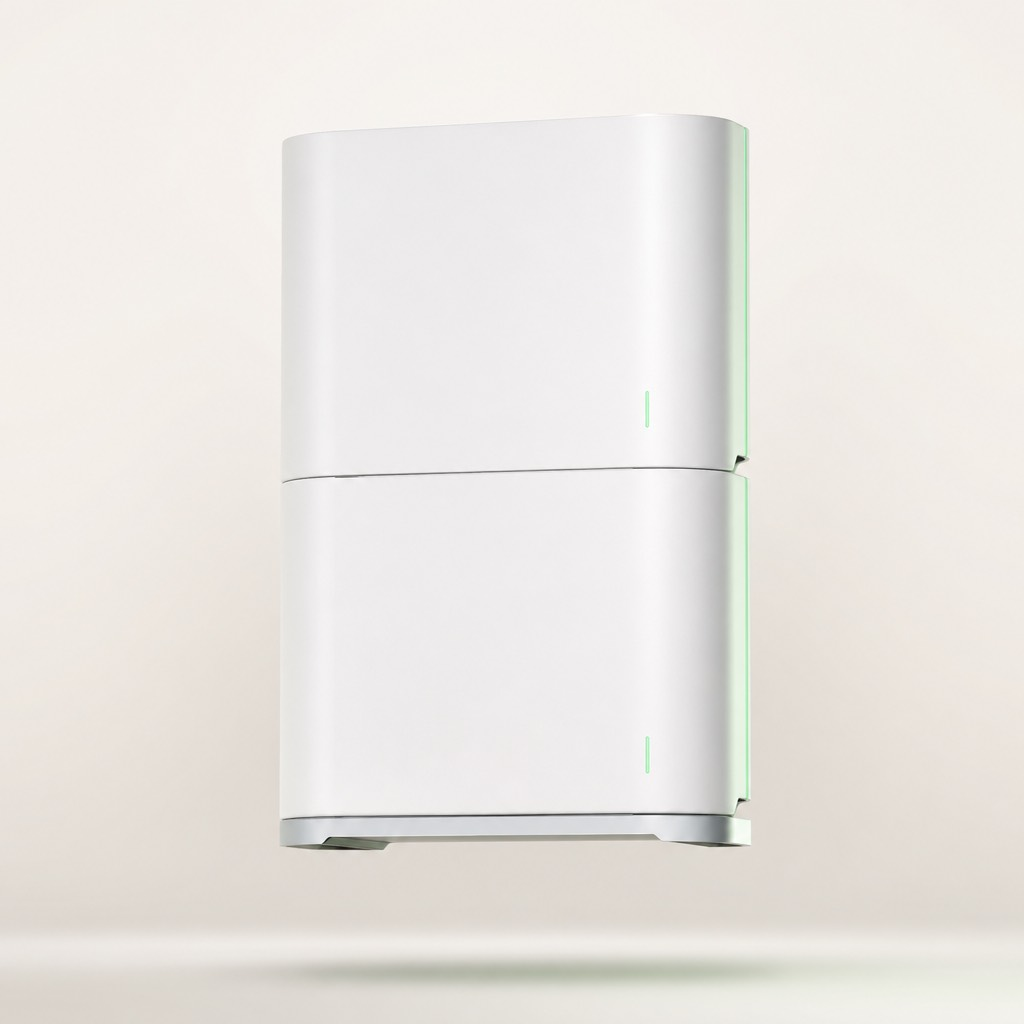
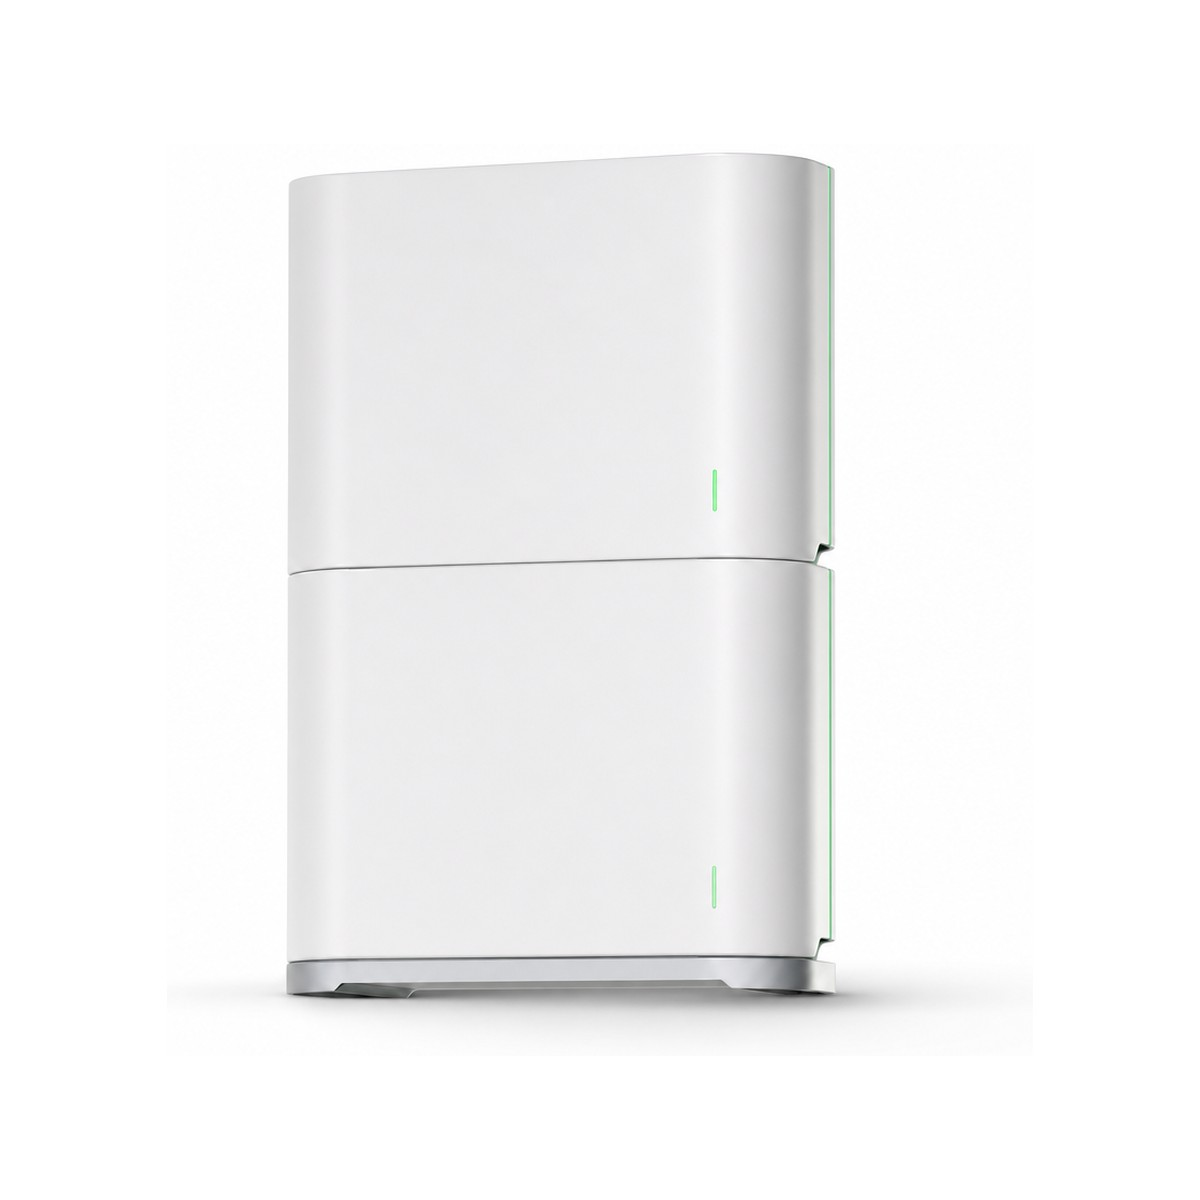
design: studio cutouts en witte productframes zoals premium catalogs
Vervangt rommelige lifestyle-beelden door consistente 1200px cutouts, voegt een gedeeld ProductImage-frame toe (catalog, PDP, compare) en een korte proces-timeline bij vaste-batterij offertes.

diff --git a/src/features/comparison/fixed-battery-lead-panel.tsx b/src/features/comparison/fixed-battery-lead-panel.tsx
@@ -1,7 +1,17 @@
 "use client";
 
 import * as React from "react";
-import { ArrowRight, Battery, Home, Mail } from "lucide-react";
+import {
+  ArrowRight,
+  Battery,
+  CalendarCheck,
+  CheckCircle2,
+  ClipboardList,
+  Home,
+  Mail,
+  Phone,
+  Wrench,
+} from "lucide-react";
 import { Button, buttonVariants } from "@/components/ui/button";
 import { Card, CardContent } from "@/components/ui/card";
 import { Input } from "@/components/ui/input";
@@ -11,6 +21,14 @@ import { trackEvent } from "@/lib/observability/analytics";
 import { submitLeadAction } from "@/features/leads/actions";
 import { formatPrice } from "@/lib/format";
 import type { QualificationResult } from "./qualification";
+
+const NEXT_STEPS = [
+  { icon: Phone, title: "Adviesgesprek", detail: "Kort gesprek over verbruik en woning" },
+  { icon: ClipboardList, title: "Persoonlijk aanbod", detail: "Offerte op maat, vrijblijvend" },
+  { icon: CalendarCheck, title: "Jouw akkoord", detail: "Pas tekenen als het klopt" },
+  { icon: Wrench, title: "Installatie plannen", detail: "Datum afstemmen met monteur" },
+  { icon: CheckCircle2, title: "Klaar voor gebruik", detail: "In bedrijf en toegelicht" },
+] as const;
 
 export interface FixedBatteryLeadPanelProps {
   source?: string;
@@ -187,6 +205,30 @@ export function FixedBatteryLeadPanel({
         <p className="text-muted-foreground text-center text-xs">
           Vrijblijvend · Geen verplichting · Partner-installateur
         </p>
+
+        {!compact && (
+          <div className="border-border bg-muted/40 rounded-xl border px-4 py-4">
+            <p className="text-sm font-semibold">Wat gebeurt er hierna?</p>
+            <ol className="mt-3 grid gap-3 sm:grid-cols-5">
+              {NEXT_STEPS.map((step, index) => (
+                <li key={step.title} className="flex gap-2 sm:flex-col sm:gap-1.5">
+                  <span className="bg-background text-primary border-border flex size-8 shrink-0 items-center justify-center rounded-lg border">
+                    <step.icon className="size-4" aria-hidden />
+                  </span>
+                  <span>
+                    <span className="text-muted-foreground block text-[10px] font-semibold tracking-wide uppercase">
+                      Stap {index + 1}
+                    </span>
+                    <span className="block text-xs font-semibold">{step.title}</span>
+                    <span className="text-muted-foreground block text-xs leading-snug">
+                      {step.detail}
+                    </span>
+                  </span>
+                </li>
+              ))}
+            </ol>
+          </div>
+        )}
 
         {submitted ? (
           <p className="text-success bg-success/10 rounded-xl px-4 py-3 text-sm">

diff --git a/src/features/products/components/product-detail-by-type-page.tsx b/src/features/products/components/product-detail-by-type-page.tsx
@@ -1,8 +1,8 @@
 import type { Metadata } from "next";
 import { notFound } from "next/navigation";
-import Image from "next/image";
 import Link from "next/link";
 import { BatteryCharging, ChevronRight, ShieldCheck, Truck, Zap } from "lucide-react";
+import { ProductImage } from "@/components/patterns/product-image";
 import { getProductBySlug, getProductSlugs } from "@/features/products/queries";
 import { getFaqs } from "@/features/content/queries";
 import { getApprovedReviews } from "@/features/reviews/queries";
@@ -167,30 +167,21 @@ export async function ProductDetailByTypePage({
         </nav>
 
         <div className="grid gap-8 lg:grid-cols-[1.15fr_1fr] lg:gap-12">
-          <div className="from-accent/50 via-muted border-border relative flex aspect-square items-center justify-center overflow-hidden rounded-3xl border bg-gradient-to-br to-transparent">
-            <div
-              aria-hidden
-              className="ambient-glow pointer-events-none absolute inset-0 opacity-60"
-            />
-            {imageUrl ? (
-              <Image
-                src={imageUrl}
-                alt={product.name}
-                fill
-                priority
-                sizes="(max-width: 1024px) 100vw, 50vw"
-                className="relative object-contain p-8 drop-shadow-[0_24px_48px_rgba(16,40,32,0.18)]"
-              />
-            ) : (
-              <BatteryCharging className="text-primary/25 relative size-24" aria-hidden />
-            )}
-            <div className="absolute top-4 left-4 flex flex-col gap-1.5">
+          <ProductImage
+            src={imageUrl}
+            alt={product.name}
+            aspect="square"
+            priority
+            sizes="(max-width: 1024px) 100vw, 50vw"
+            imageClassName="p-8 sm:p-10"
+          >
+            <div className="absolute top-4 left-4 z-10 flex flex-col gap-1.5">
               <Badge variant={isFixed ? "muted" : "highlight"}>
                 {productTypeBadge(product.productType)}
               </Badge>
               {product.expandable && <Badge variant="highlight">Uitbreidbaar</Badge>}
             </div>
-          </div>
+          </ProductImage>
 
           <div className="flex flex-col gap-5">
             <div>

diff --git a/src/components/patterns/product-card.tsx b/src/components/patterns/product-card.tsx
@@ -1,8 +1,8 @@
-import Image from "next/image";
 import Link from "next/link";
 import { ArrowRight, BatteryCharging, Clock, ShieldCheck, Zap } from "lucide-react";
 import { Card } from "@/components/ui/card";
 import { Badge } from "@/components/ui/badge";
+import { ProductImage } from "@/components/patterns/product-image";
 import { ProductRatingDisplay } from "@/components/patterns/product-rating-display";
 import { CompareToggle } from "@/features/comparison/compare-toggle";
 import { OfferLink } from "@/features/offers-pricing/offer-link";
@@ -56,28 +56,20 @@ export function ProductCard({ product }: { product: ProductListItem }) {
         href={href}
         className="focus-visible:ring-ring flex flex-1 flex-col rounded-[inherit] focus-visible:ring-2 focus-visible:outline-none focus-visible:ring-inset"
       >
-        <div className="from-accent/60 via-muted to-background relative aspect-[4/3] overflow-hidden bg-gradient-to-br">
-          {imageUrl ? (
-            <Image
-              src={imageUrl}
-              alt={product.name}
-              fill
-              sizes="(max-width: 768px) 100vw, 33vw"
-              className="object-contain p-6 transition-transform duration-300 group-hover:scale-[1.02]"
-            />
-          ) : (
-            <span className="flex h-full w-full items-center justify-center">
-              <BatteryCharging className="text-primary/25 size-20" aria-hidden />
-            </span>
-          )}
-
-          <div className="absolute top-3 left-3 flex flex-col gap-1.5">
+        <ProductImage
+          src={imageUrl}
+          alt={product.name}
+          aspect="card"
+          sizes="(max-width: 768px) 100vw, 33vw"
+          imageClassName="transition-transform duration-300 group-hover:scale-[1.02]"
+        >
+          <div className="absolute top-3 left-3 z-10 flex flex-col gap-1.5">
             <Badge variant={isFixed ? "muted" : "highlight"}>
               {productTypeBadge(product.productType)}
             </Badge>
             {product.expandable && <Badge variant="highlight">Uitbreidbaar</Badge>}
           </div>
-        </div>
+        </ProductImage>
 
         <div className="flex flex-1 flex-col gap-3 p-5">
           <div>

diff --git a/src/components/patterns/product-image.tsx b/src/components/patterns/product-image.tsx
@@ -1,0 +1,61 @@
+import type { ReactNode } from "react";
+import Image from "next/image";
+import { BatteryCharging } from "lucide-react";
+import { cn } from "@/lib/utils";
+
+type ProductImageProps = {
+  src: string | null;
+  alt: string;
+  /** Catalog cards use 4:3; PDP uses square. */
+  aspect?: "square" | "card";
+  sizes: string;
+  priority?: boolean;
+  className?: string;
+  /** Extra classes on the Next Image (hover scale etc.). */
+  imageClassName?: string;
+  children?: ReactNode;
+};
+
+/**
+ * Studio-style product frame: white stage, consistent padding, soft edge.
+ * Matches catalog cutouts (Gaslicht-achtig) without brand-kopie van hun UI.
+ */
+export function ProductImage({
+  src,
+  alt,
+  aspect = "card",
+  sizes,
+  priority = false,
+  className,
+  imageClassName,
+  children,
+}: ProductImageProps) {
+  return (
+    <div
+      className={cn(
+        "border-border/60 relative overflow-hidden border bg-white",
+        aspect === "square" ? "aspect-square rounded-3xl" : "aspect-[4/3]",
+        className,
+      )}
+    >
+      {src ? (
+        <Image
+          src={src}
+          alt={alt}
+          fill
+          priority={priority}
+          sizes={sizes}
+          className={cn(
+            "object-contain p-5 sm:p-6",
+            imageClassName,
+          )}
+        />
+      ) : (
+        <span className="flex h-full w-full items-center justify-center bg-zinc-50">
+          <BatteryCharging className="text-primary/25 size-20" aria-hidden />
+        </span>
+      )}
+      {children}
+    </div>
+  );
+}

diff --git a/src/features/comparison/compare-view.tsx b/src/features/comparison/compare-view.tsx
@@ -149,7 +149,7 @@ export function CompareView({ products }: { products: ProductDetail[] }) {
                 const href = productDetailPath(p.slug, p.productType);
                 return (
                   <th key={p.id} scope="col" className="min-w-48 p-4 align-bottom">
-                    <div className="from-accent/50 to-muted relative mx-auto flex aspect-square max-w-32 items-center justify-center rounded-2xl bg-gradient-to-br">
+                    <div className="relative mx-auto flex aspect-square max-w-32 items-center justify-center overflow-hidden rounded-2xl border border-zinc-100 bg-white">
                       {imageUrl ? (
                         <Image
                           src={imageUrl}

diff --git a/src/features/comparison/decision-wizard.tsx b/src/features/comparison/decision-wizard.tsx
@@ -304,7 +304,7 @@ function RecommendationCard({
   return (
     <Card interactive className={cn(index === 0 && "border-primary/40 ring-primary/15 ring-2")}>
       <CardContent className="flex flex-col gap-4 p-5 sm:flex-row sm:items-center">
-        <div className="from-accent/50 to-muted relative size-24 shrink-0 self-center overflow-hidden rounded-2xl bg-gradient-to-br">
+        <div className="relative size-24 shrink-0 self-center overflow-hidden rounded-2xl border border-zinc-100 bg-white">
           {imageUrl && (
             <Image
               src={imageUrl}

diff --git a/src/features/comparison/hero-matcher.tsx b/src/features/comparison/hero-matcher.tsx
@@ -103,7 +103,7 @@ export function HeroMatcher({ products }: { products: ProductListItem[] }) {
             href={productDetailPath(top.product.slug, top.product.productType)}
             className="group mt-2 flex items-center gap-4"
           >
-            <div className="bg-muted relative size-16 shrink-0 overflow-hidden rounded-xl">
+            <div className="relative size-16 shrink-0 overflow-hidden rounded-xl border border-zinc-100 bg-white">
               {imageUrl && (
                 <Image
                   src={imageUrl}

diff --git a/src/features/checkout/cart-view.tsx b/src/features/checkout/cart-view.tsx
@@ -42,7 +42,7 @@ export function CartView() {
                 key={item.offerId}
                 className="border-border bg-card flex gap-4 rounded-2xl border p-4"
               >
-                <div className="bg-muted relative size-20 shrink-0 overflow-hidden rounded-xl">
+                <div className="relative size-20 shrink-0 overflow-hidden rounded-xl border border-zinc-100 bg-white">
                   {imageUrl && (
                     <Image
                       src={imageUrl}
